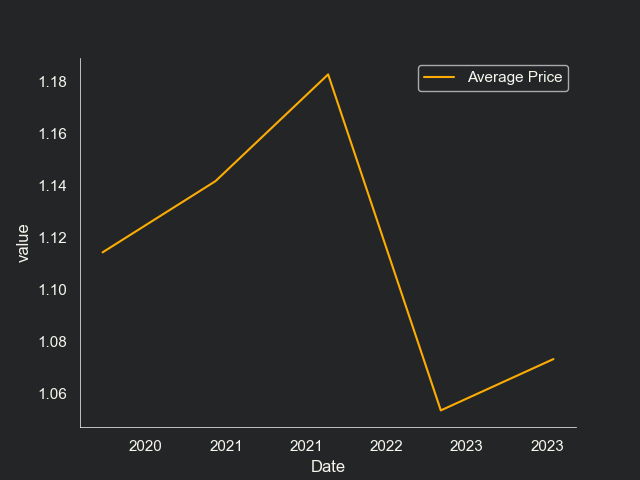
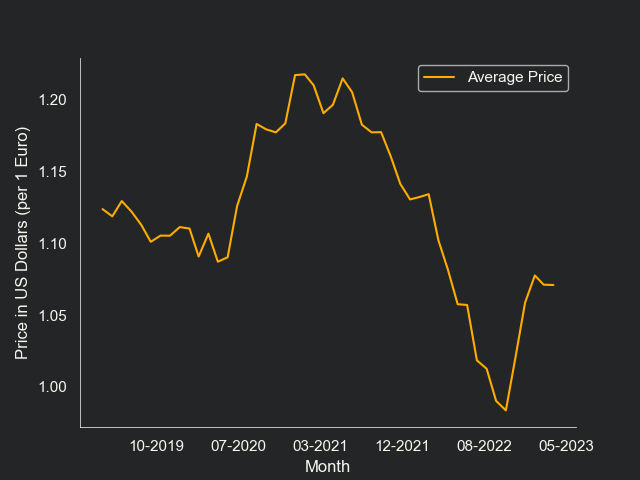
Fixing small bugs

diff --git a/Backend/app.py b/Backend/app.py
@@ -23,8 +23,25 @@ def get_image():
     price = request.args.get('price')
     time = request.args.get('time')
 
+    data_type_from = data_type[:3]
+    data_type_to = data_type[3:]
+
+    currency_from = abbreviation_to_currency(data_type_from)
+    currency_to = abbreviation_to_currency(data_type_to)
+
+    y_axis = "Price in " + currency_to + "s (per 1 " + currency_from + ")"
+
+    if time == "Y":
+        x_axis = "Year"
+    elif time == "M":
+        x_axis = "Month"
+    elif time == "D":
+        x_axis = "Day"
+    else:
+        x_axis = "Unknown"
+
     table = pd.DataFrame()
-    new_file_name = plot_graph(image_directory, data_type + '.csv', table, time, price)
+    new_file_name = plot_graph(image_directory, data_type + '.csv', table, time, price, y_axis)
 
     image_path = image_directory + new_file_name
 
@@ -44,6 +61,23 @@ def get_image():
         #return send_file(image_path, as_attachment=True)
     else:
         return jsonify({"error": "Image not found"}, 404)
+
+def abbreviation_to_currency(input_string):
+    if input_string == "BTC":
+        result_string = "Bitcoin"
+    elif input_string == "USD":
+        result_string = "US Dollar"
+    elif input_string == "GBP":
+        result_string = "British Pound"
+    elif input_string == "EUR":
+        result_string = "Euro"
+    elif input_string == "CAD":
+        result_string = "Canadian Dollar"
+    elif input_string == "JPY":
+        result_string = "Japanese Yen"
+    else:
+        result_string = "Unknown"
+    return result_string
 
 if __name__ == '__main__':
     app.run(debug=True, use_reloader=False)

diff --git a/Backend/plot.py b/Backend/plot.py
@@ -3,7 +3,7 @@ import seaborn as sns
 import pandas as pd
 
 
-def plot_graph(working_directory, csv_name,table, date_type, price_type):
+def plot_graph(working_directory, csv_name,table, date_type, price_type, y_axis):
     legend = ""
     df = pd.read_csv(working_directory + 'fy19-23/' + csv_name)
     df['Date'] = pd.to_datetime(df['Date'], format='%Y%m%d')
@@ -41,11 +41,17 @@ def plot_graph(working_directory, csv_name,table, date_type, price_type):
     plt.legend(labels=[legend])
     if date_type == 'M':
         plt.gca().xaxis.set_major_formatter(mdates.DateFormatter('%m-%Y'))
+        plt.xlabel("Month")
     elif date_type == 'Y':
         plt.gca().xaxis.set_major_formatter(mdates.DateFormatter('%Y'))
+        plt.xlabel("Year")
     else:
         plt.gca().xaxis.set_major_formatter(mdates.DateFormatter('%d-%m-%Y'))
+        plt.xlabel("Date")
+        plt.xticks(rotation=6) 
+    plt.ylabel(y_axis)
     plt.gca().xaxis.set_major_locator(mdates.DayLocator(interval=260))
+
     new_file_name = "figure.png"
     plt.savefig(working_directory + new_file_name)
     plt.close()
